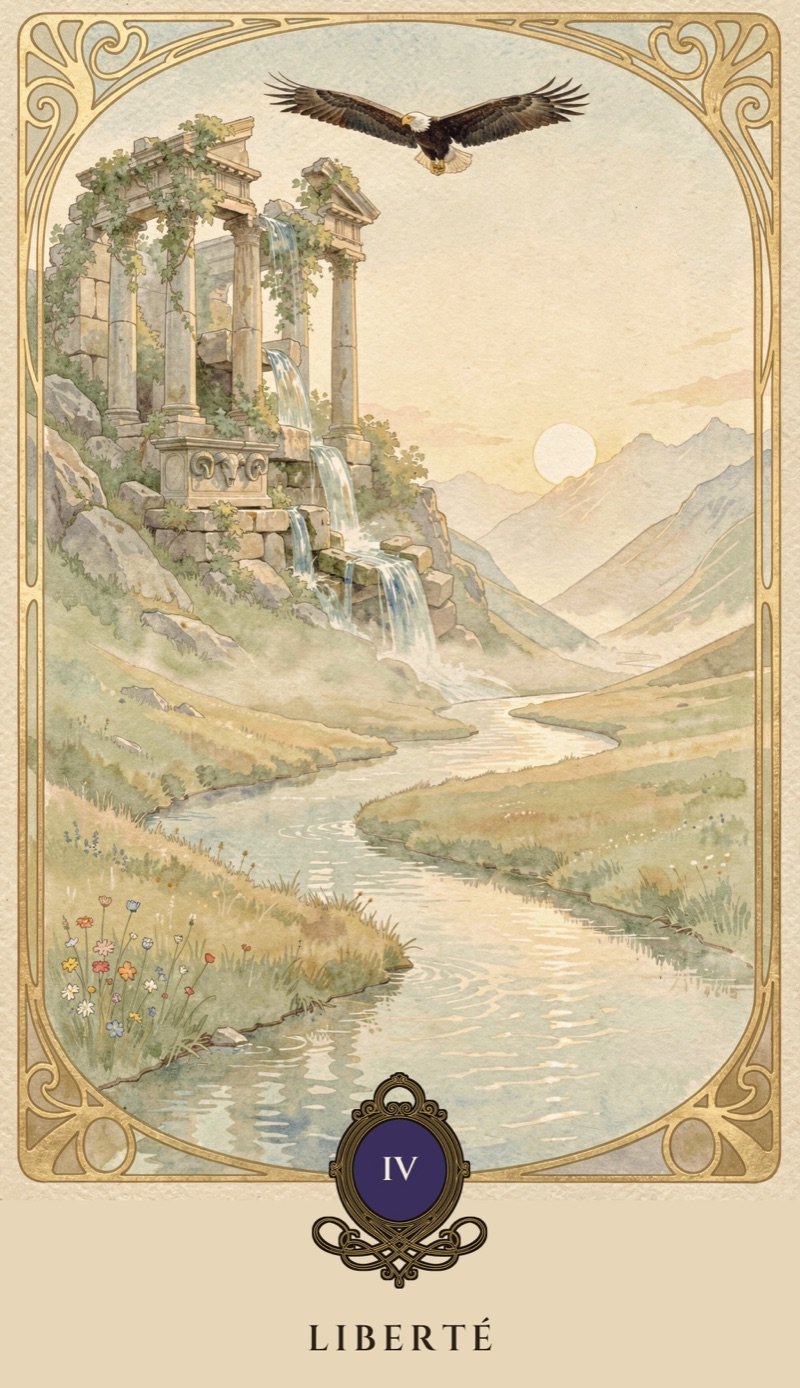
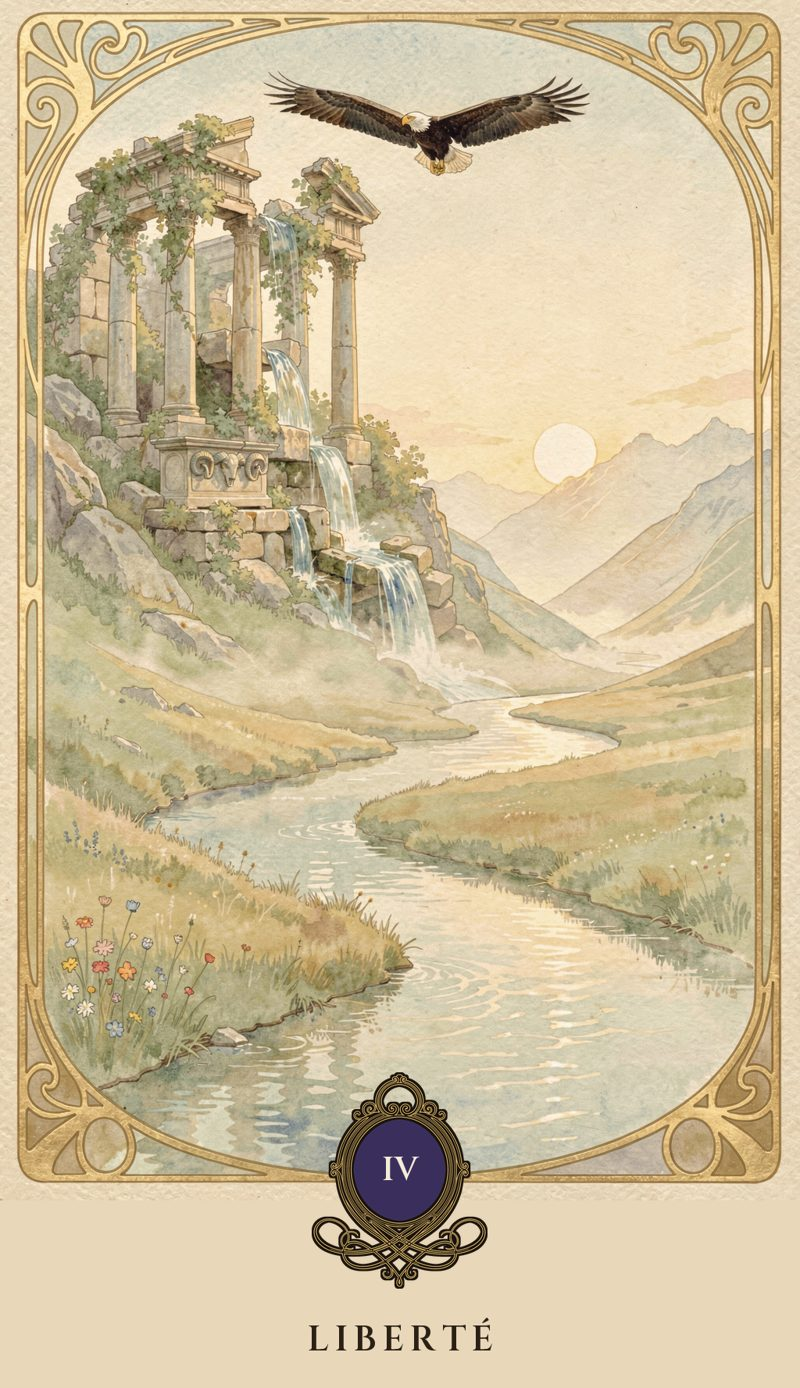
Cartouche tarot : or éclairci d'un cran (200,162,78 -> 219,181,101) sur les 22 majeurs

diff --git a/LOG_AJUSTEMENTS.md b/LOG_AJUSTEMENTS.md
@@ -59,3 +59,21 @@
   conservée ; accueil montré une seule fois, plus au rechargement du même moment,
   « À méditer » restant un moment distinct le soir).
 - **Statut** : livré le jour même.
+
+## 2026-09-23 — Couleur du cartouche tarot : or éclairci d'un cran
+
+- **Demande** (Martin) : le cartouche (le médaillon doré qui entoure le disque des numéros)
+  est « parfait, mais très légèrement trop foncé ».
+- **Décision** : l'or des lignes `ORN_LINE` passe de `(200,162,78)` à **`(219,181,101)`** —
+  même teinte jaune brun, ~+6 % de luminosité (nuance « B » choisie sur un aperçu de
+  3 candidats). Corrigé dans `_distillation/_composer_cartouches.py` (+ `_tint_ornements.py`
+  pour les maquettes HTML). Le disque, le cerne foncé et le nom ne changent pas.
+- **Déployé** : 37 cartes recomposées dans les 2 thèmes ; les 22 majeurs du thème **clair**
+  repassés en `static/cartes/NN.jpg` (800×1388, BICUBIC, q82 — la recette documentée) +
+  miniatures WebP régénérées. **Art intact** : l'écart avec les cartes précédentes est
+  confiné aux lignes d'or (0,03-0,18 % des pixels), le reste est identique.
+- **Notes** : `_distillation/` (composeur + images sources) n'est PAS versionné (hors
+  dépôt de l'app) ; seul le jpg déployé l'est. « L'Éveil » (major_22) n'est pas servi par
+  l'app (arcanes 0-21) — non déployé. Les mineures de l'app restent les cartes classiques
+  (sans cartouche de ce jeu).
+- **Statut** : livré le jour même.
